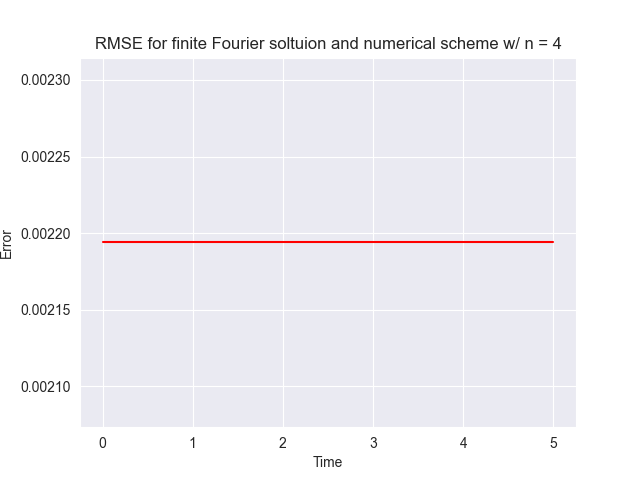
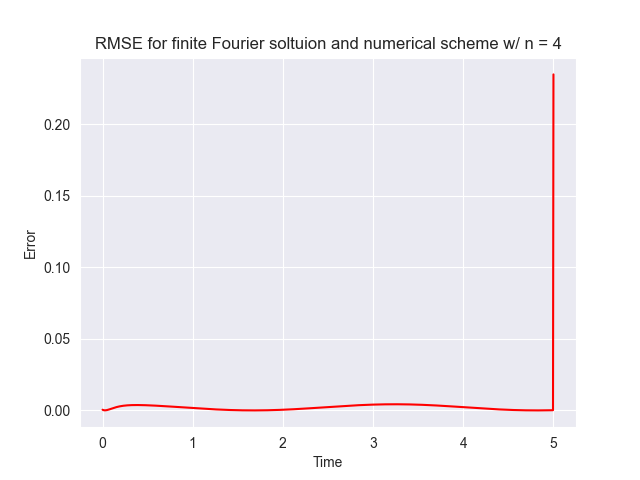
update: FML...

diff --git a/code/src/main.py b/code/src/main.py
@@ -92,8 +92,8 @@ x, t = hq1.get_x_t()
 
 # ------------------------------------------------------------------------------------------------------
 # Computing the fourier solution
-# four_1, _ = f.fourier_1(x, t)
-four_2, num = f.fourier_2(x, t, n = 10)
+# four_1, num = f.fourier_1(x, t, n = 7)
+four_2, num = f.fourier_2(x, t, n = 9)
 
 # finite diff soltution
 # finite_f_1 = np.sin(t)
@@ -112,8 +112,8 @@ finite_sol_2 = hq1.finite_diff(finite_f_2, finite_g_2, finite_phi_2, finite_rho_
 # rmse_fourier_1 = np.zeros((t.shape[0]))
 rmse_fourier_2 = np.zeros((t.shape[0]))
 for n in range(t.shape[0]):
-    # rmse_fourier_1[n] = mean_squared_error(finite_sol_1, four_1)
-    rmse_fourier_2[n] = mean_squared_error(finite_sol_2, four_2)
+    # rmse_fourier_1[n] = mean_squared_error(finite_sol_1[:, n], four_1[:, n])
+    rmse_fourier_2[n] = mean_squared_error(finite_sol_2[:, n], four_2[:, n])
 
 
 # Running plotting class for both the numerical solutions
@@ -123,12 +123,12 @@ plt = pt(x, t)
 if __name__ == '__main__':
     pass
     # Plotting and animating solution of the heat equation
-    # plt.plot_analytic_numeric(finite_sol_2, four_2, num, 50, save = True)
+    # plt.plot_analytic_numeric(four_2, finite_sol_2, num, 50, save = False)
     # plt.plot(300, hq1.get_s())
     # plt.animate(sol_2, hq1.get_s())
     # plt.animate(hq1.get_s())
     # plt.animate(four_1, s = hq1.get_s())
-    plt.animate(four_2)
+    # plt.animate(four_2)
     # plt.animate(sol_2)
     # plt.rmse_plot(rmse_2, s = hq1.get_s(), name='3', save = True)
-    # plt.rmse_plot(rmse_fourier_1, num, save = True)
+    plt.rmse_plot(rmse_fourier_2, num, save = True)

diff --git a/code/src/heat_plot.py b/code/src/heat_plot.py
@@ -61,8 +61,8 @@ class Plot:
         # Plotting for a given time
         plt.figure()
         plt.plot(self.x, ue[:, 0], 'black', label = 'Initial condition')
-        plt.plot(self.x, ue[:, time], 'blue', label = 'Fourier series')
-        plt.plot(self.x, u[:, time], 'r--', label = 'Numeric')
+        plt.plot(self.x, ue[:, time], 'blue', label = 'Numerical scheme')
+        plt.plot(self.x, u[:, time], 'r--', label = 'Fourier series')
         plt.xlim(0, self.x.max())
         plt.xlabel('x')
         plt.ylabel('u(x, t)')

diff --git a/code/src/fourier.py b/code/src/fourier.py
@@ -41,7 +41,7 @@ class Fourier:
         return u, n
 
     # Second Fourier example
-    def fourier_2(x:np.ndarray, t:np.ndarray, n:int = 5):
+    def fourier_2(x:np.ndarray, t:np.ndarray, n:int = 10):
         """
         Solution with Fourier series for the second example
         """
